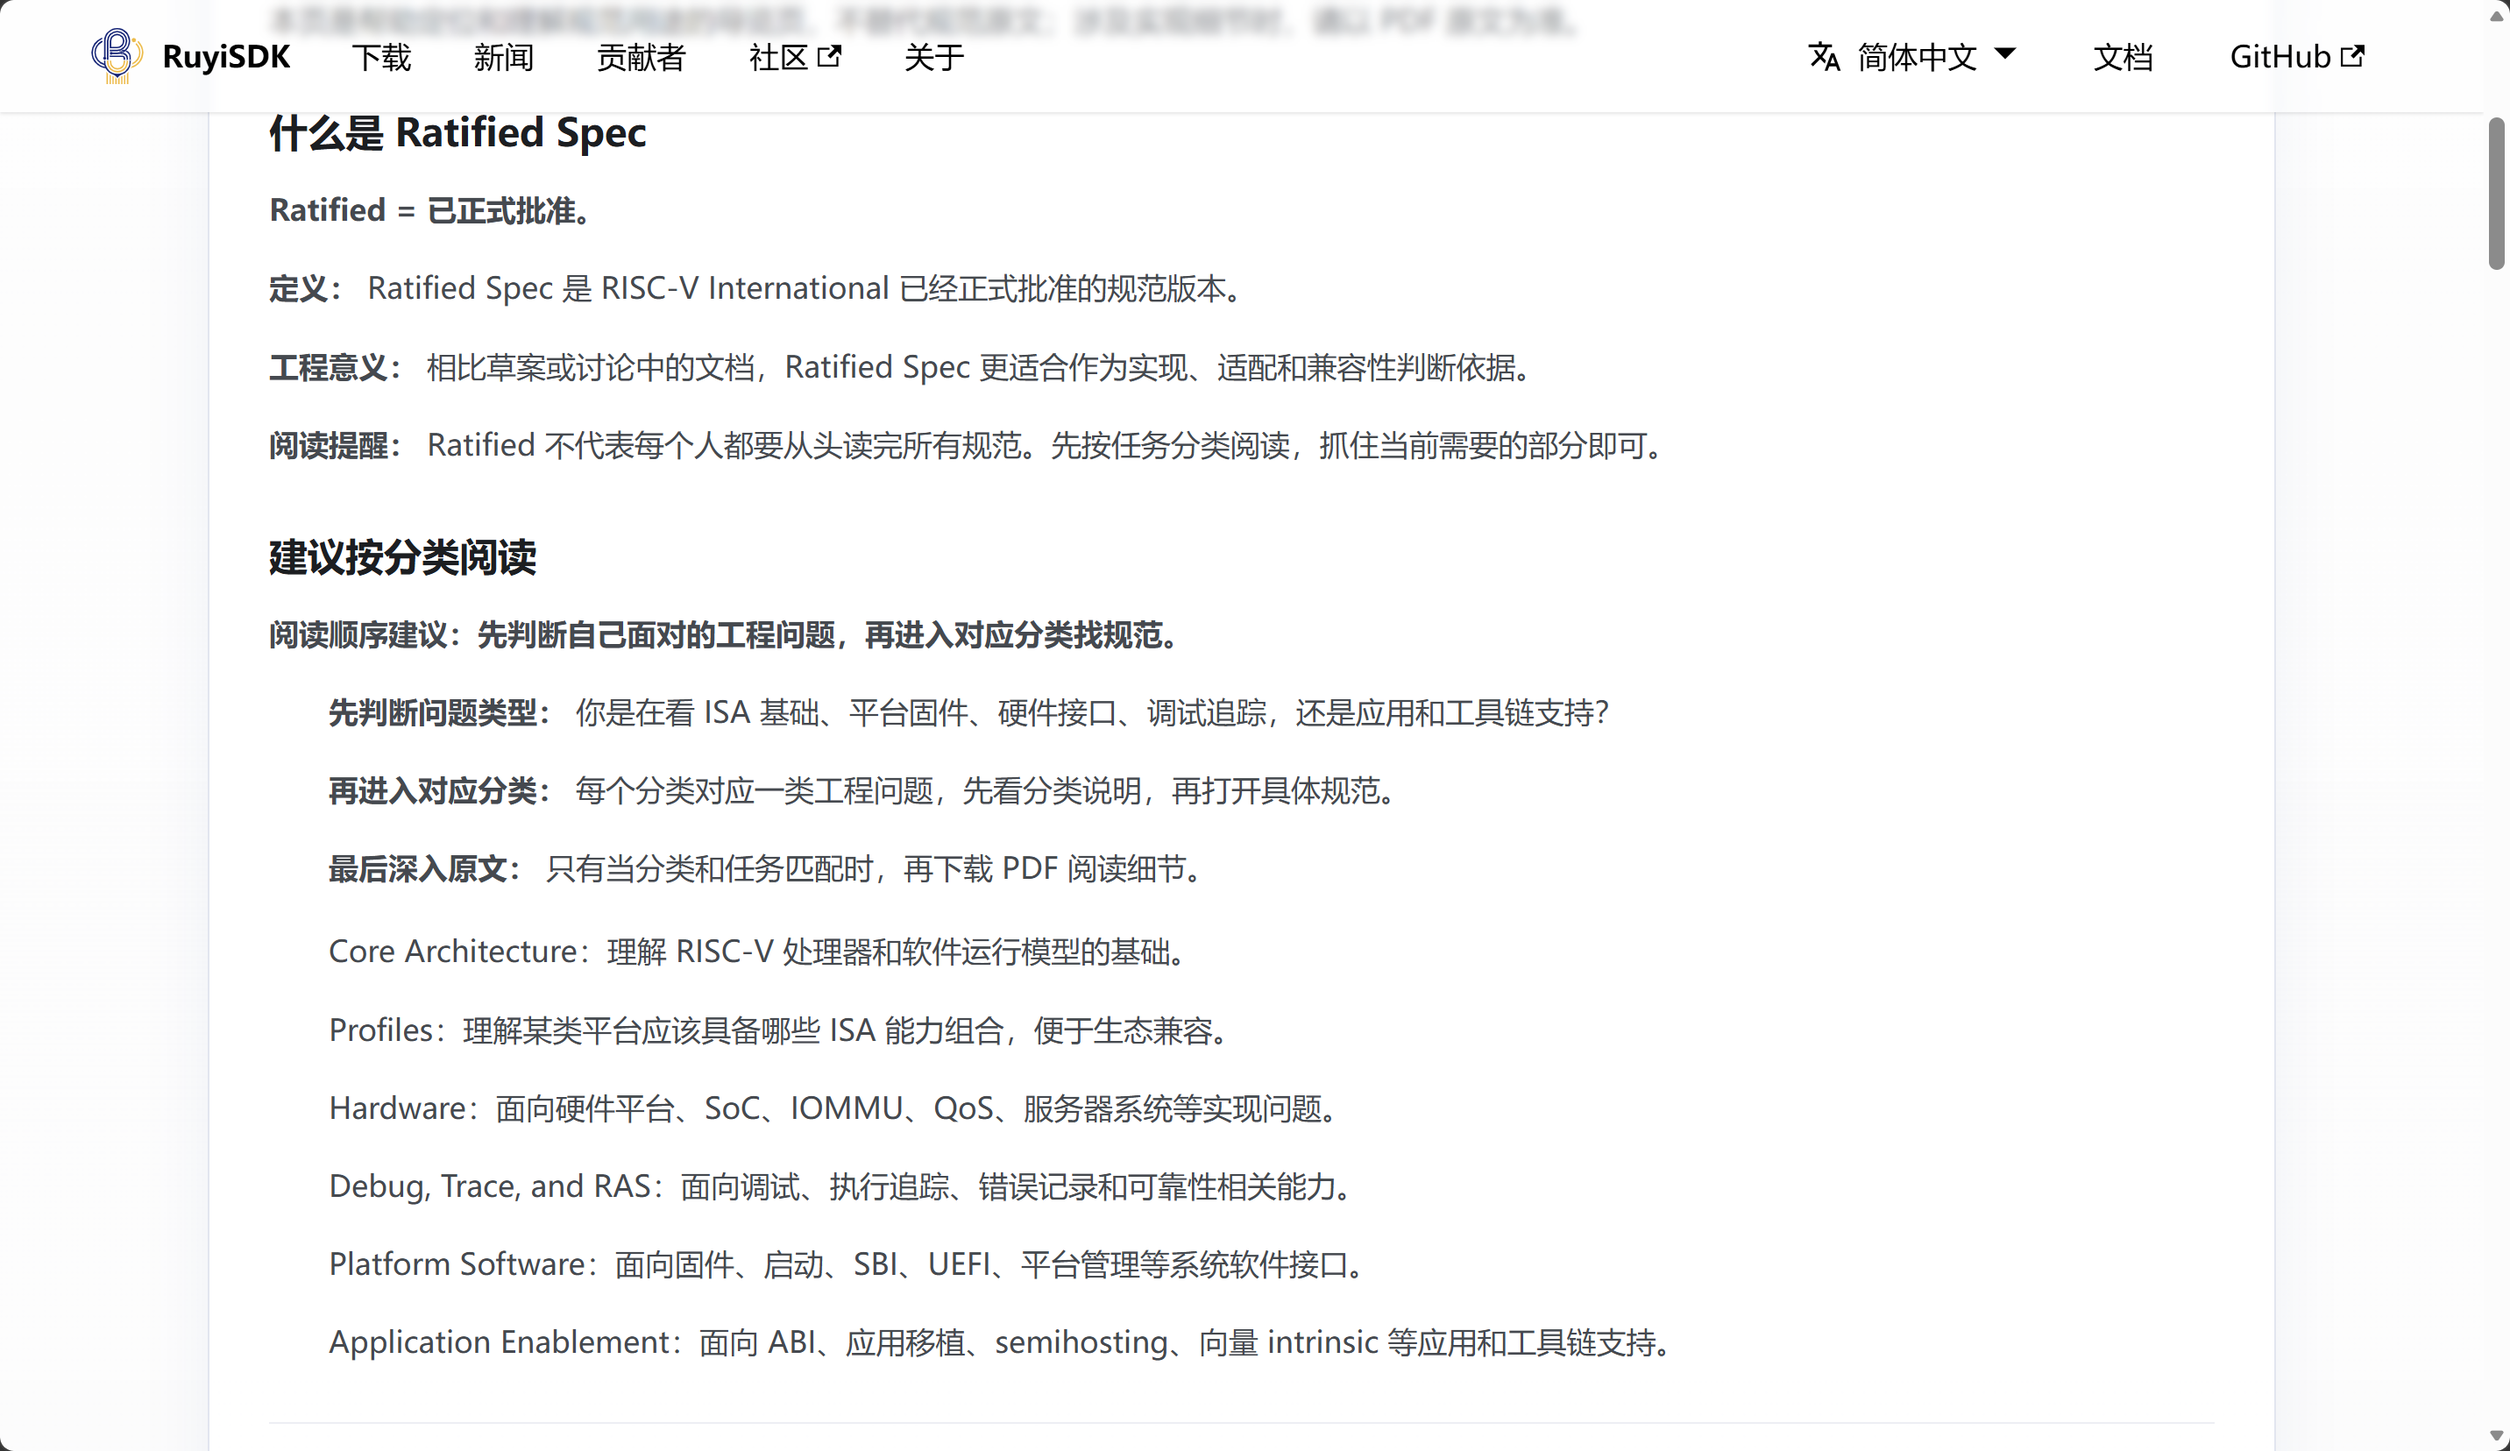
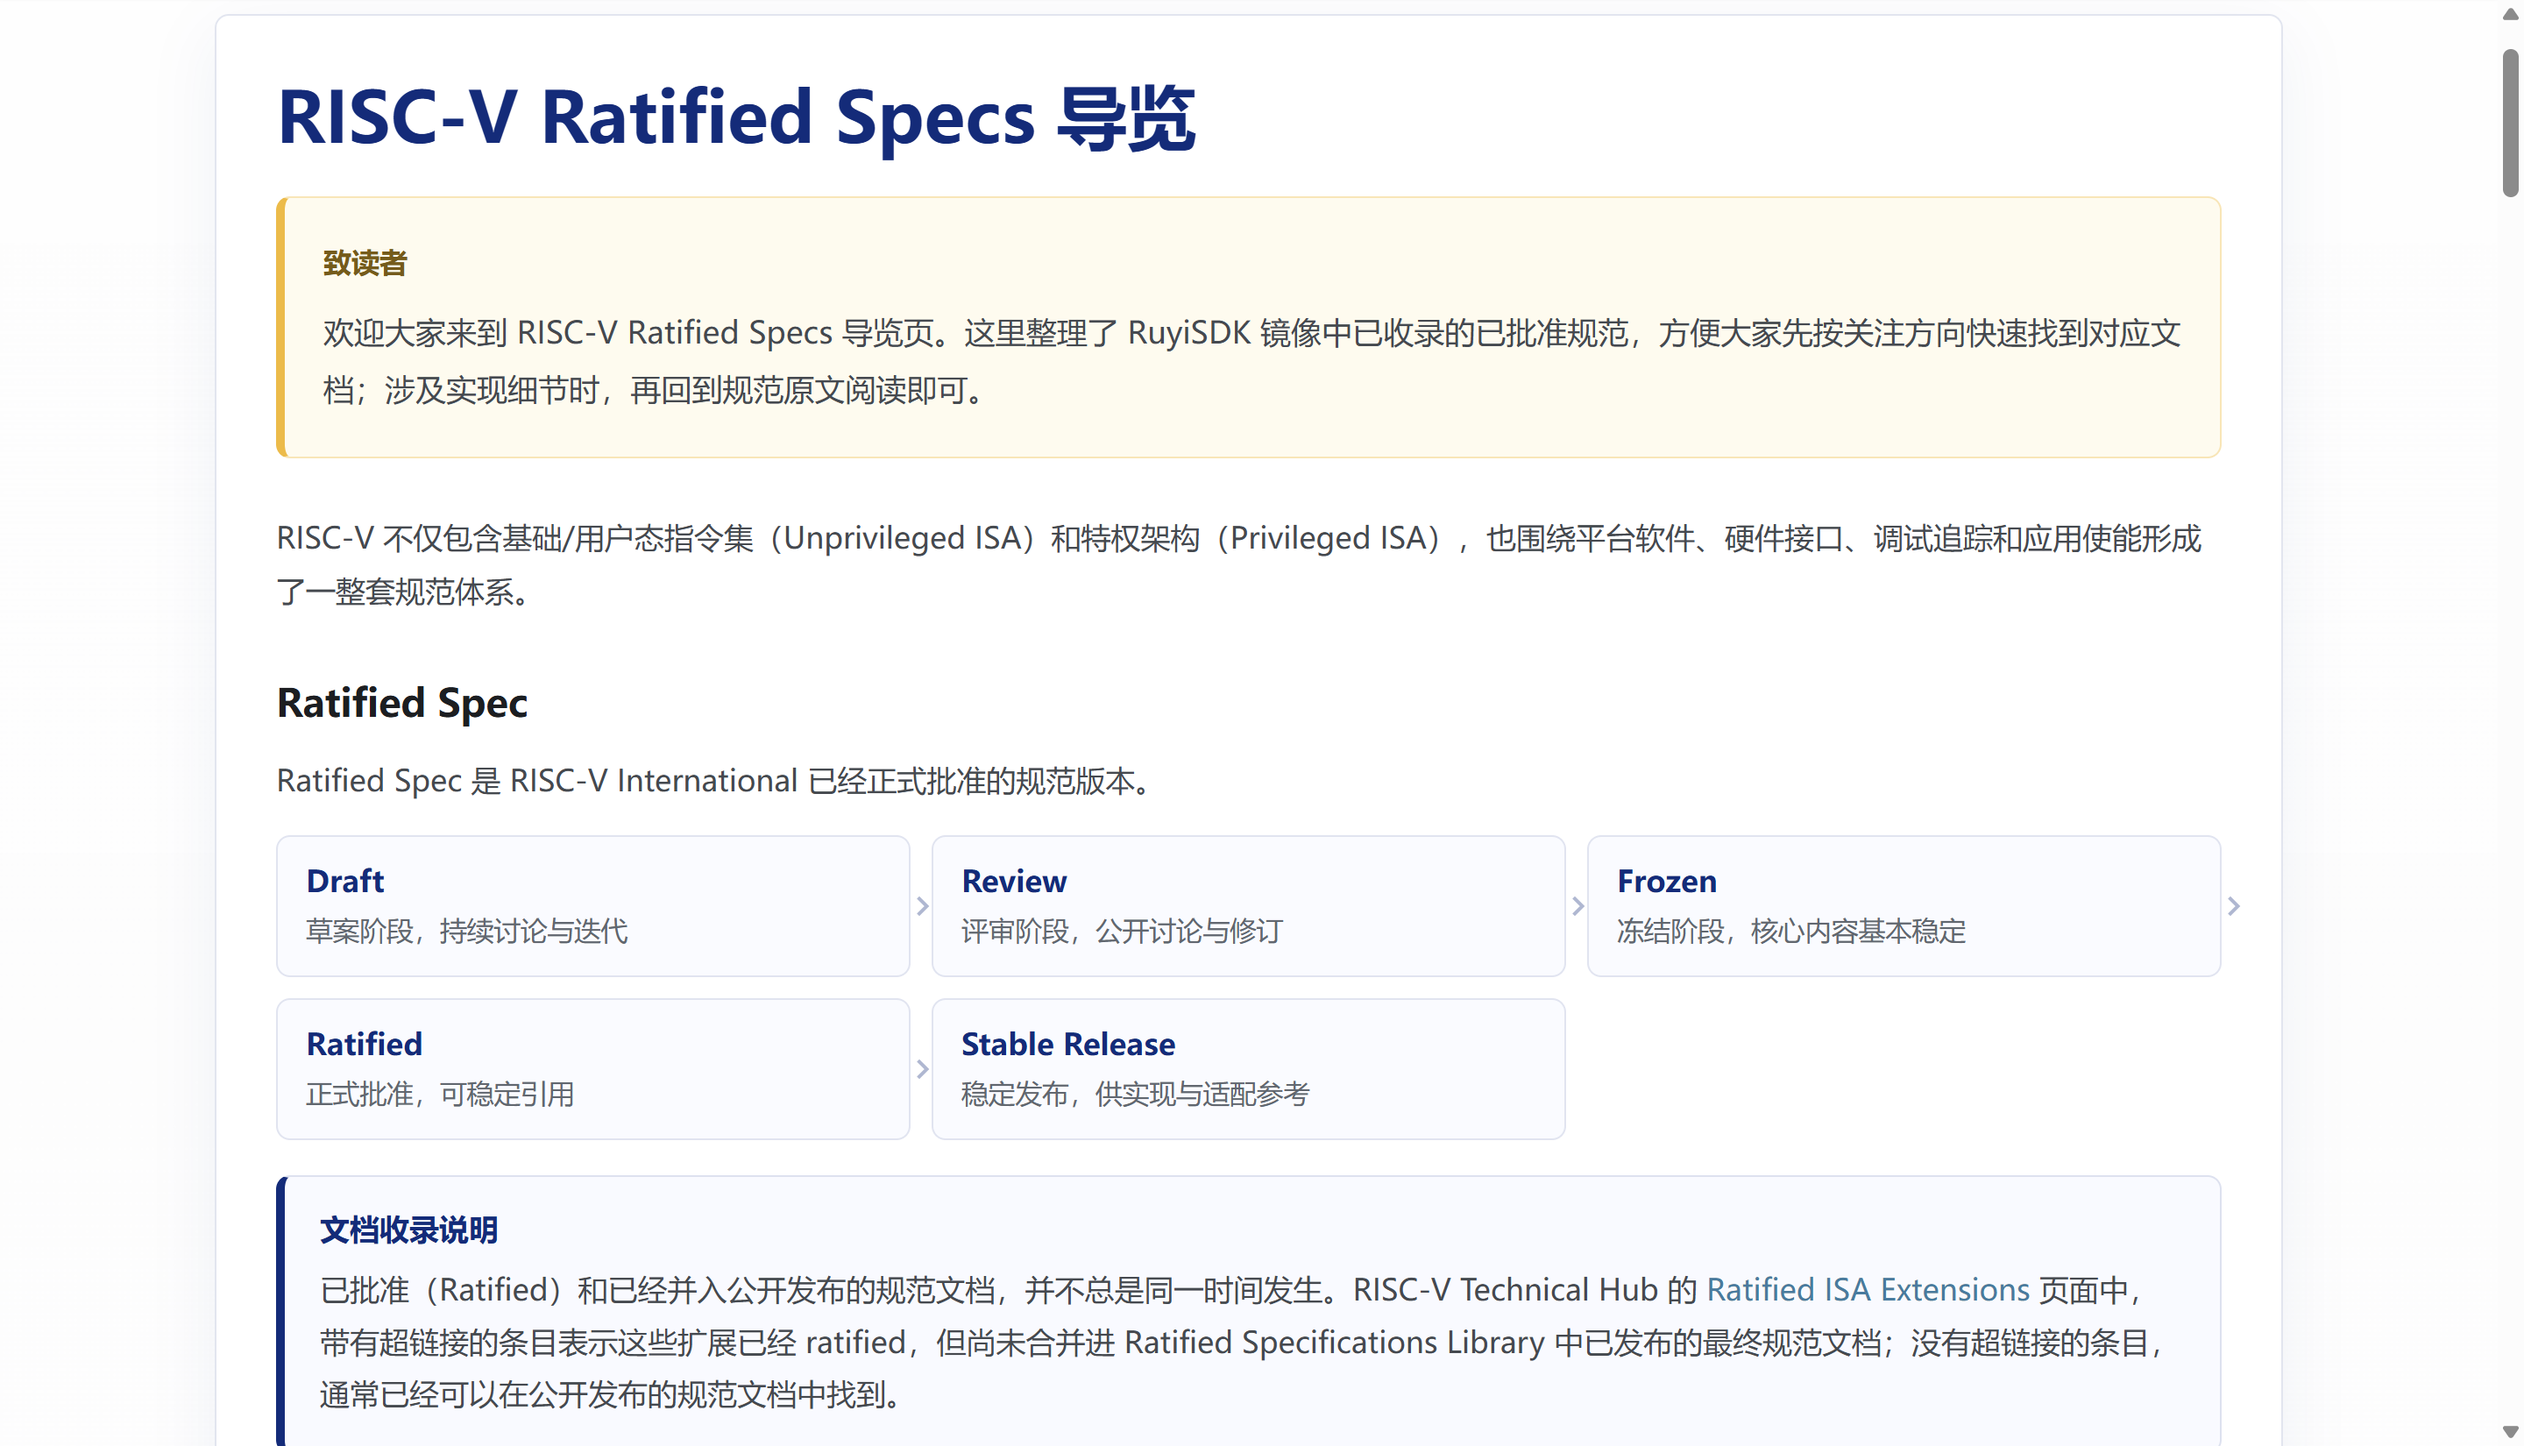
Refine RISC-V spec page output after mentor feedback

diff --git a/outputs/riscv-spec-page/web-prototype/src/components/RiscvSpecPage/index.jsx b/outputs/riscv-spec-page/web-prototype/src/components/RiscvSpecPage/index.jsx
@@ -24,32 +24,32 @@ const CATEGORY_DESCRIPTIONS = {
 
 const AUDIENCE_GUIDES = [
   {
-    audience: "适合新手",
+    audience: "关注 ISA 基础",
     category: "Core Architecture",
     description: "先理解普通程序、特权级、异常和中断等基础运行模型。",
   },
   {
-    audience: "系统软件 / 固件 / RuyiSDK 用户",
+    audience: "关注系统软件/固件",
     category: "Platform Software",
     description: "优先看启动、SBI、UEFI 和平台管理接口，贴近日常系统适配工作。",
   },
   {
-    audience: "软件生态兼容",
+    audience: "关注软件生态兼容",
     category: "Profiles",
     description: "用 Profiles 判断目标平台是否具备软件期望的基础能力组合。",
   },
   {
-    audience: "硬件 / SoC / 平台验证",
+    audience: "关注硬件/SoC/平台验证",
     category: "Hardware",
     description: "关注 IOMMU、PLIC、Server SoC、QoS 等平台集成和硬件接口。",
   },
   {
-    audience: "调试 / 追踪 / bring-up",
+    audience: "关注调试/追踪/bring-up",
     category: "Debug, Trace, and RAS",
     description: "从调试模型、trace 数据和错误记录接口入手，定位底层问题。",
   },
   {
-    audience: "编译器 / 运行库 / 向量库",
+    audience: "关注编译器/运行库/向量库",
     category: "Application Enablement",
     description: "重点看 ABI、semihosting 和 Vector Intrinsic，服务应用移植与优化。",
   },
@@ -86,7 +86,7 @@ function AudienceGuide() {
   return (
     <section className={styles.audienceGuide} aria-labelledby="audience-guide-title">
       <div className={styles.guideHeader}>
-        <h2 id="audience-guide-title">新手先看什么</h2>
+        <h2 id="audience-guide-title">按关注点阅读</h2>
       </div>
 
       <div className={styles.guideGrid}>
@@ -94,7 +94,7 @@ function AudienceGuide() {
           <a key={item.audience} className={styles.guideCard} href={`#${toSectionId(item.category)}`}>
             <span className={styles.guideBadge}>{item.audience}</span>
             <strong>
-              建议先看：
+              对应分类：
               <span>{item.category}</span>
             </strong>
             <p>{item.description}</p>
@@ -184,6 +184,14 @@ export default function RiscvSpecPage() {
             />
           ))}
         </section>
+
+        <p className={styles.pageNote}>
+          备注：本页用于导览和下载镜像定位；相应技术标准请以{" "}
+          <a href="https://docs.riscv.org/reference/home/index.html" target="_blank" rel="noopener noreferrer">
+            RISC-V International 官方技术网站
+          </a>{" "}
+          为准。
+        </p>
       </div>
     </main>
   );

diff --git a/outputs/riscv-spec-page/web-prototype/src/components/RiscvSpecPage/styles.module.css b/outputs/riscv-spec-page/web-prototype/src/components/RiscvSpecPage/styles.module.css
@@ -68,6 +68,75 @@
   line-height: 1.85;
 }
 
+.overviewContent :global(.ratified-lifecycle) {
+  display: grid;
+  grid-template-columns: repeat(3, minmax(0, 1fr));
+  gap: 12px;
+  margin: 16px 0 18px;
+}
+
+.overviewContent :global(.ratified-step) {
+  position: relative;
+  border: 1px solid rgba(10, 44, 126, 0.11);
+  border-radius: 8px;
+  background: rgba(248, 250, 255, 0.82);
+  padding: 14px 16px;
+}
+
+.overviewContent :global(.ratified-step:not(:last-child)::after) {
+  content: "";
+  position: absolute;
+  top: 50%;
+  right: -10px;
+  width: 8px;
+  height: 8px;
+  border-top: 2px solid rgba(10, 44, 126, 0.34);
+  border-right: 2px solid rgba(10, 44, 126, 0.34);
+  transform: translateY(-50%) rotate(45deg);
+}
+
+.overviewContent :global(.ratified-step strong) {
+  display: block;
+  color: var(--ifm-color-primary);
+  font-size: 1rem;
+  line-height: 1.35;
+}
+
+.overviewContent :global(.ratified-step span) {
+  display: block;
+  margin-top: 5px;
+  color: var(--ifm-color-emphasis-700);
+  font-size: 0.9rem;
+  line-height: 1.5;
+}
+
+.overviewContent :global(.spec-note) {
+  margin: 20px 0 30px;
+  border: 1px solid rgba(10, 44, 126, 0.12);
+  border-left: 5px solid var(--ifm-color-primary);
+  border-radius: 8px;
+  background: rgba(248, 250, 255, 0.9);
+  padding: 18px 20px;
+}
+
+.overviewContent :global(.spec-note strong) {
+  display: block;
+  margin-bottom: 8px;
+  color: var(--ifm-color-primary);
+  font-size: 1rem;
+  line-height: 1.4;
+}
+
+.overviewContent :global(.spec-note p) {
+  margin-bottom: 10px;
+  color: var(--ifm-color-emphasis-800);
+  line-height: 1.75;
+}
+
+.overviewContent :global(.spec-note p:last-child) {
+  margin-bottom: 0;
+}
+
 .audienceGuide {
   margin-top: 30px;
   border-top: 1px solid rgba(16, 36, 122, 0.08);
@@ -332,6 +401,19 @@
   text-decoration: none;
 }
 
+.pageNote {
+  margin: 34px 0 0;
+  border-top: 1px solid rgba(16, 36, 122, 0.08);
+  padding-top: 18px;
+  color: var(--ifm-color-emphasis-600);
+  font-size: 0.9rem;
+  line-height: 1.7;
+}
+
+.pageNote a {
+  color: var(--ifm-color-primary);
+}
+
 @media (max-width: 760px) {
   .container {
     width: min(100% - 24px, 1180px);
@@ -384,6 +466,17 @@
   .overviewContent h2 {
     margin-top: 26px;
     font-size: 1.18rem;
+  }
+
+  .overviewContent :global(.ratified-lifecycle) {
+    grid-template-columns: 1fr;
+  }
+
+  .overviewContent :global(.ratified-step:not(:last-child)::after) {
+    top: auto;
+    right: 50%;
+    bottom: -10px;
+    transform: translateX(50%) rotate(135deg);
   }
 
   .categoryHeader,
